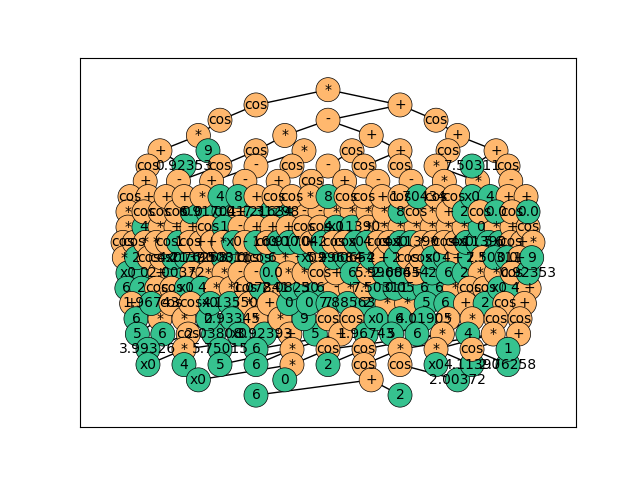
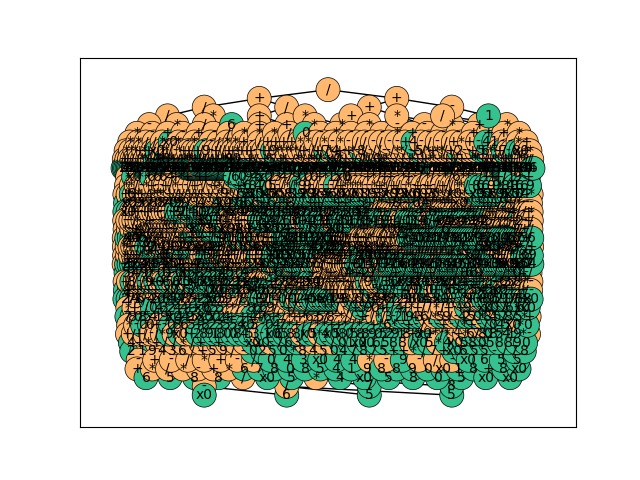
test

diff --git a/src/test_gp.py b/src/test_gp.py
@@ -92,8 +92,8 @@ def root_mean_square_error(y_true, y_predict):
 
 
 def problem(x):
-    # return np.sqrt(x[:,0])
-    return 20*np.cos(2*x[:, 0]) + 0.3*x[:, 0]*x[:, 0]
+    return np.cos(x[:,0])
+    # return 20*np.cos(2*x[:, 0]) + 0.3*x[:, 0]*x[:, 0]
 
 
 left = -12
@@ -108,9 +108,9 @@ X_train, X_test, y_train, y_test = train_test_split(
     X, y, test_size=0.33, random_state=42)
 
 uniset = UniversalSet(functional_set=(Add(),
-                                      Cos(),
+                                    #   Cos(),
                                     #   Sin(),
-                                    #   Div(),
+                                      Div(),
                                       Mul(),
                                       Sub(),
                                       ),
@@ -124,9 +124,9 @@ def fitness_function(trees):
     for tree in trees:
         y_pred = tree.compile()*np.ones(len(y_train))
         level = tree.get_max_level()
-        if level > 5:
-            # fine = len(tree.nodes)
-            fine = 0
+        if level > 49:
+            fine = len(tree.nodes)
+            # fine = 0
         else:
             fine = 0
         fitness.append(root_mean_square_error(y_train, y_pred) + fine)
@@ -136,7 +136,7 @@ def fitness_function(trees):
 model = SelfCGP(fitness_function=fitness_function,
                 genotype_to_phenotype=donothing,
                 uniset=uniset,
-                pop_size=250, iters=1500,
+                pop_size=500, iters=1000,
                 show_progress_each=10,
                 minimization=False,
                 no_increase_num=300,
@@ -146,37 +146,30 @@ model.max_level = 15
 model.fit()
 
 fittest = model.thefittest.phenotype
+
 stats = model.stats
 print(fittest)
 
 x_plot = np.linspace(left, right, size).reshape(-1, 1)
 y_plot = problem(x_plot)
 
-y_pred = fittest.compile()*np.ones_like(y_train)
-tree_c = fittest.simplify()
-y_predc = tree_c.compile()*np.ones_like(y_train)
-print_tree(tree_c, 'fittest_c.png')
+fittest_pred = fittest.change_terminals({'x0': x_plot})
+y_pred = fittest_pred.compile()
+if type(y_pred) is not np.ndarray:
+    y_pred = np.full(len(x_plot), y_pred)
 
-print(np.all(y_pred == y_predc), 'true')
+y_pred_train = fittest.compile()
 
-plt.plot(x_plot, y_plot, label='true', color='green')
-plt.scatter(X_train, y_train, label='train', color='black', alpha=0.3)
-plt.scatter(X_train, y_pred, label='pred', color='red', alpha=0.3)
-plt.scatter(X_train, y_predc, label='pred', color='blue', alpha=0.3)
+plt.plot(x_plot[:,0], y_plot, label='true', color='green')
+plt.scatter(X_train[:,0], y_train, label='train', color='black', alpha=0.3)
+plt.scatter(X_train[:,0], y_pred_train, label='train', color='red', alpha=0.3)
+plt.plot(x_plot[:,0], y_pred, color='red')
 plt.legend()
 plt.savefig('line1.png')
 plt.close()
 
 print_tree(fittest, 'fittest.png')
 
-# print(stats.fitness)
-# print(stats.fittest)
-# for f, t in zip(stats.fitness, stats.fittest):
-#     print(f, t)
-
-# print(stats.m_proba)
-# print(stats.c_proba)
-# print(stats.s_proba)
 plt.plot(range(len(stats.fitness)), stats.fitness)
 plt.savefig('fitness.png')
 plt.close()

diff --git a/src/thefittest/optimizers/_selfcgp.py b/src/thefittest/optimizers/_selfcgp.py
@@ -82,26 +82,24 @@ class SelfCGP(GeneticProgramming):
                          keep_history)
 
         self.K = 2
-        self.threshold = 0.01
+        self.threshold = 0.1
         self.set_strategy(select_opers=['proportional',
                                         'rank',
                                         'tournament'],
-                          crossover_opers=[
-            'empty',
-            'standart',
-            'one_point'
-            ],
+                          crossover_opers=['empty',
+                                           'standart',
+                                           'one_point'],
             mutation_opers=['weak_point',
                             'average_point',
-                            #   'strong_point',
+                              'strong_point',
                             'weak_grow',
                             'average_grow',
-                            #   'strong_grow',
-                              'weak_simplify',
-                              'average_simplify',
+                              'strong_grow',
+                            #   'weak_simplify',
+                            #   'average_simplify',
                             #   'strong_simplify',
-                            'weak_gauss',
-                            'average_gauss',
+                            # 'weak_gauss',
+                            # 'average_gauss',
                             #   'strong_gauss'
                             ])
         self.stats: StatisticsSelfCGP
@@ -162,7 +160,8 @@ class SelfCGP(GeneticProgramming):
         offspring_no_mutated = crossover_func(parents,
                                               fitness_scale_p,
                                               fitness_rank_p)
-        mutant = mutation_func(offspring_no_mutated, self.uniset, proba, self.max_level)
+        mutant = mutation_func(offspring_no_mutated,
+                               self.uniset, proba, self.max_level)
         return mutant
 
     def choice_operators(self, proba_dict):

diff --git a/src/thefittest/optimizers/_mutations.py b/src/thefittest/optimizers/_mutations.py
@@ -107,27 +107,22 @@ def constant_gauss_mutation(some_tree, uniset,
 def growing_mutation(some_tree, uniset,
                      proba_down, max_level):
     proba = proba_down/len(some_tree.nodes)
-    for i in range(1, len(some_tree.nodes)):
-        if np.random.random() < proba:
-            left, right = some_tree.subtree(i)
-            # max_level_i = some_tree.levels[left:right][-1] - \
-            #     some_tree.levels[left:right][0]
-            max_level_i = max_level - some_tree.levels[left:right][0]
+    if np.random.random() < proba:
+        i = np.random.randint(0, len(some_tree.nodes))
+        left, right = some_tree.subtree(i)
+        max_level_i = max_level - some_tree.levels[left:right][0]
 
-            new_tree = growing_method(uniset, max_level_i)
-            mutated = some_tree.concat(i, new_tree)
-            return mutated
-    return some_tree
+        new_tree = growing_method(uniset, max_level_i)
+        mutated = some_tree.concat(i, new_tree)
+        return mutated
+    else:
+        return some_tree
+
 
 def simplify_mutations(some_tree, uniset,
-                     proba_down, max_level):
+                       proba_down, max_level):
     proba = proba_down/len(some_tree.nodes)
     if np.random.random() < proba:
-        for i in range(len(some_tree.nodes)-1, -1, -1):
-            if type(some_tree.nodes[i]) is FunctionalNode:
-                some_tree, cond = some_tree.simplify_by_index(index=i)
-                if cond:
-                    return some_tree
+        i = np.random.randint(0, len(some_tree.nodes))
+
     return some_tree
-    
-    

diff --git a/src/test_equalgp.py b/src/test_equalgp.py
@@ -85,17 +85,18 @@ uniset = UniversalSet(functional_set=(Add(),
                                       Mul(),
                                     #   Neg()
                                       ),
-                      terminal_set={'x0': np.array([1, 2, 3])},
+                      terminal_set={'x0': np.array([1, 2, 3]),
+                                    'x1': np.array([3, 2, 1])},
                       constant_set=(1, 3, 5, 7))
 
 
-F1 = FunctionalNode(Add())
-F2 = FunctionalNode(Add())
-F3 = FunctionalNode(Cos())
-T1 = TerminalConstantNode(11)
-T2 = TerminalConstantNode(22)
-F4 = FunctionalNode(Sin())
-X = TerminalNode(np.array([1, 2, 3]), 'X')
+# F1 = FunctionalNode(Add())
+# F2 = FunctionalNode(Add())
+# F3 = FunctionalNode(Cos())
+# T1 = TerminalConstantNode(11)
+# T2 = TerminalConstantNode(22)
+# F4 = FunctionalNode(Sin())
+# X = TerminalNode(np.array([1, 2, 3]), 'X')
 
 
 tree_1 = full_growing_method(uniset, 5)
@@ -103,15 +104,20 @@ tree_1 = full_growing_method(uniset, 5)
 #               [0, 1, 2, 3, 2, 1, 2])
 
 # tree_2 = tree_1.simplify()
-print(tree_1)
+
+
 # print(tree_2)
 
 print_tree(tree_1, 'tree_1.png')
 
-tree_2 = tree_1.simplify()
-print(tree_2)
+tree_2 = tree_1.change_terminals({'x1': np.array([0, 0, 0])})
+
 
 print_tree(tree_2, 'tree_2.png')
+print(tree_1)
+print(tree_2)
+print(tree_1.compile())
+print(tree_2.compile())
 
 
-print(tree_1.compile(), tree_2.compile())
+# print(tree_1.compile(), tree_2.compile())

diff --git a/src/thefittest/optimizers/_base.py b/src/thefittest/optimizers/_base.py
@@ -206,13 +206,22 @@ class Tree:
 
         value = pack[0]
         return self.concat(index, Tree([TerminalConstantNode(value)], [0])), True
-    
+
     def simplify(self):
         for i in range(len(self.nodes)-1, -1, -1):
             if type(self.nodes[i]) is FunctionalNode:
-                self, cond = self.simplify_by_index(index=i)   
+                self, cond = self.simplify_by_index(index=i)
         return self
 
+    def change_terminals(self, change_list):
+        tree_copy = self.copy()
+        for i, node in enumerate(tree_copy.nodes):
+            if type(node) is TerminalNode:
+                for key, value in change_list.items():
+                    if node.name == key:
+                        tree_copy.nodes[i] = TerminalNode(value=value,
+                                                          name=node.name + '_')
+        return tree_copy
 
 
 class FunctionalNode:

diff --git a/src/thefittest/optimizers/_operators.py b/src/thefittest/optimizers/_operators.py
@@ -22,7 +22,7 @@ class Sub(Operator):
         self.sign = '-'
 
     def __call__(self, x, y):
-        return x + y
+        return x - y
 
 class Add3(Operator):
     def __init__(self):
@@ -100,9 +100,11 @@ class Div(Operator):
         self.sign = '/'
 
     def __call__(self, x, y):
+        
         if type(y) == np.ndarray:
             mask = y == 0
-            y[mask] = 1e-6
+            y[mask] = 1
         else:
-            y = 1e-6
+            y = 1
+        r = x/y
         return x/y
